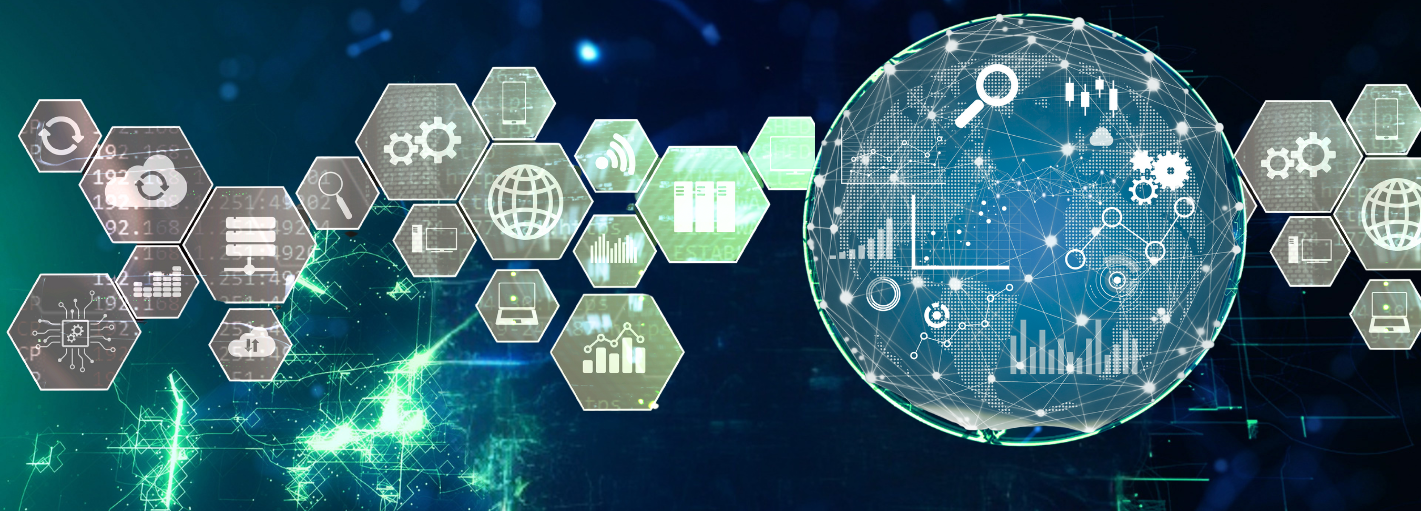
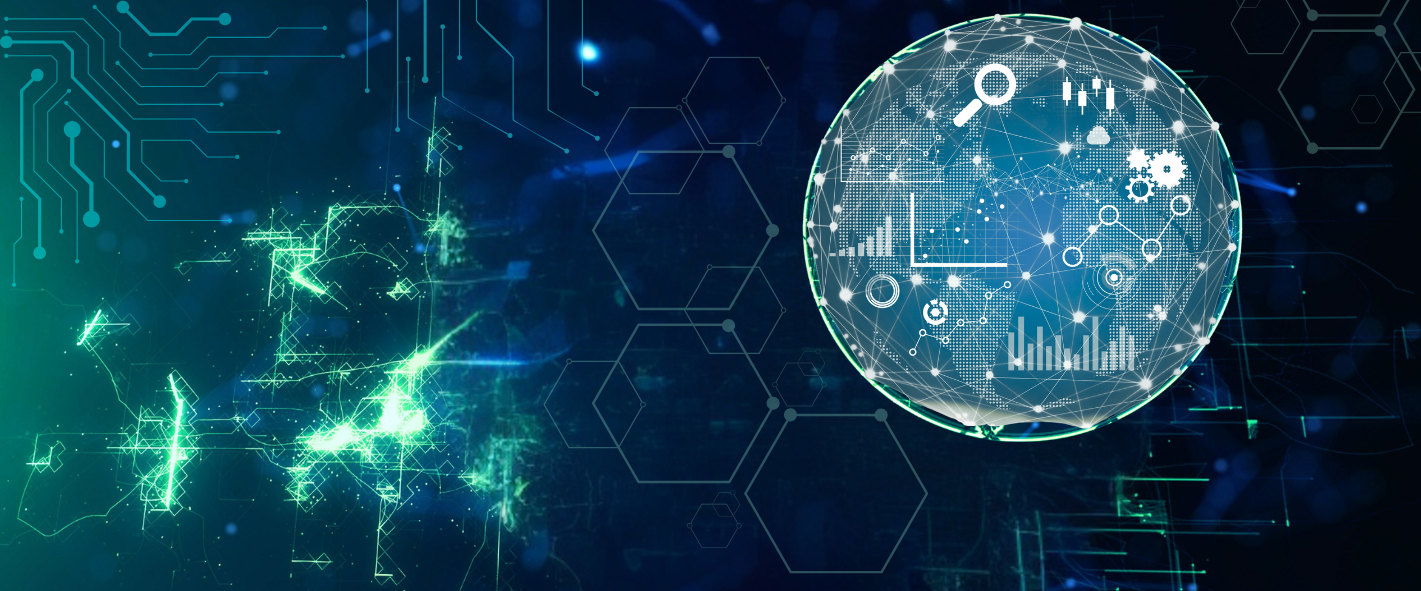
updated images and modified TechApps components

diff --git a/src/pages/TechApps.jsx b/src/pages/TechApps.jsx
@@ -7,7 +7,7 @@ import AppSection from '../components/techapps/AppSection'
 const TechApps = () => {
     return (
         <div>
-            <div className='relative w-full h-[17rem] md:h-[25rem] overflow-hidden'>
+            <div className='relative w-full  md:h-[25rem]  overflow-hidden'>
                 <img src={TechHeader} alt="Tech Header" className="w-full "/>
             </div>
             <div className="px-6 md:px-10 lg:px-20 pt-5 pb-1 lg:pt-10 lg:pb-5 flex justify-center bg-white">

diff --git a/src/pages/About.jsx b/src/pages/About.jsx
@@ -10,7 +10,7 @@ import Certification from '../components/about/Certification'
 const About = () => {
   return (
     <div>
-      <div className='w-full h-[17rem] md:h-[25rem] overflow-hidden'>
+      <div className='w-full  md:h-[25rem] overflow-hidden'>
         <img src={AboutHeader} alt="About Header" className="w-full h-full" />
       </div>
       <div className="px-8 md:px-10 lg:px-20 py-5 lg:py-10 flex justify-center bg-white">

diff --git a/src/components/techapps/AppSection.jsx b/src/components/techapps/AppSection.jsx
@@ -25,7 +25,7 @@ const AppSection = () => {
       });
     }
   }, [id]);
-
+  
   return (
     <div>
       <div className="px-8 md:px-10 lg:px-20 pt-5 lg:pt-20 flex flex-col justify-center items-center">
